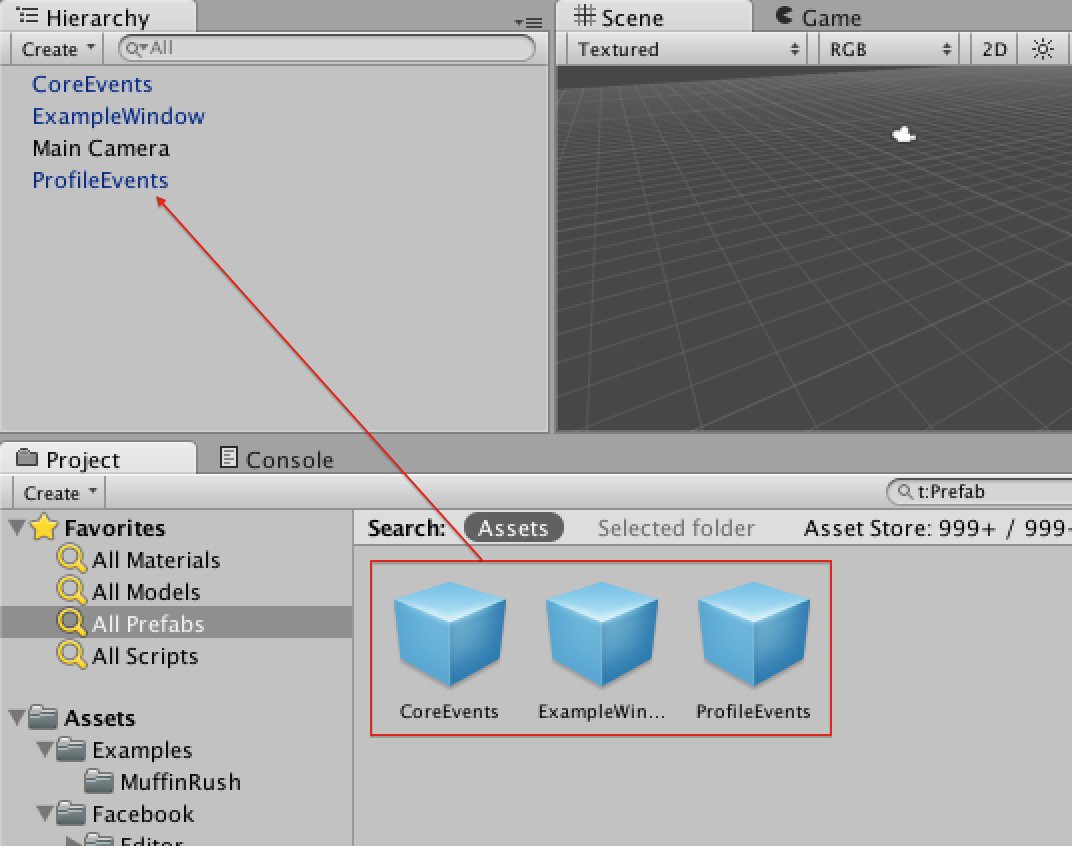
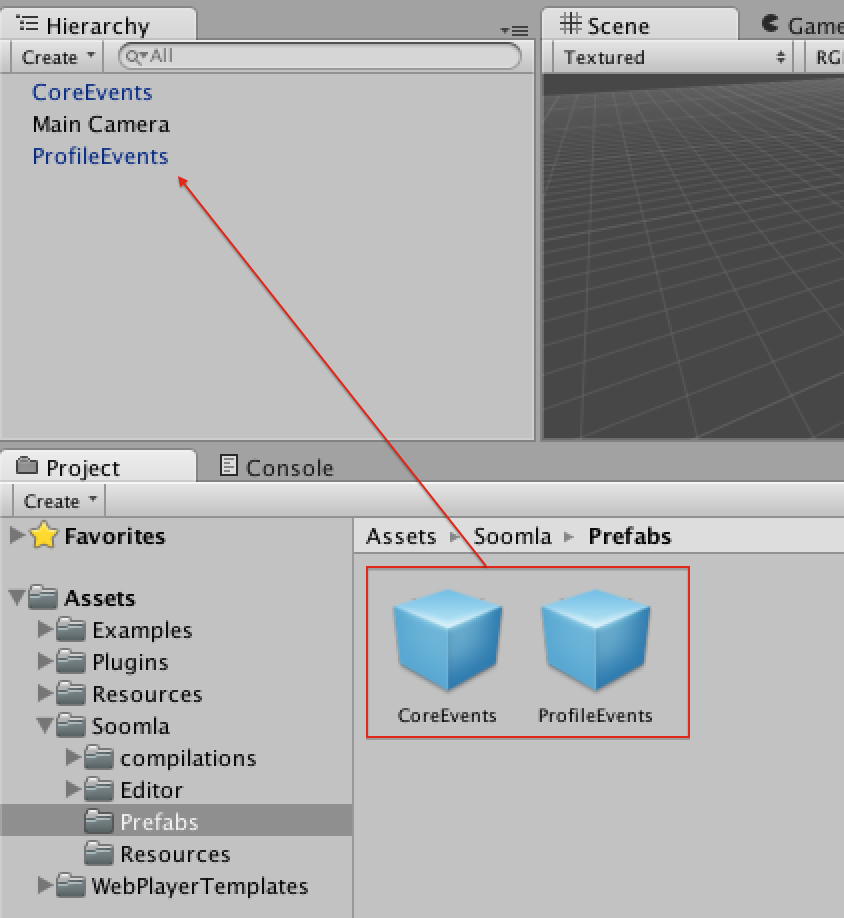
Changed prefabs image in all unity docs

diff --git a/src/documents/unity/store/Store_GettingStarted.html.md b/src/documents/unity/store/Store_GettingStarted.html.md
@@ -30,7 +30,7 @@ platform: 'unity'
 
 2. Drag the "StoreEvents" and "CoreEvents" Prefabs from `../Assets/Soomla/Prefabs` into your scene. You should see them listed in the "Hierarchy" panel.
 
-  ![alt text](/img/tutorial_img/unity_getting_started/hierarchyPanel.png "Hierarchy")
+  ![alt text](/img/tutorial_img/unity_getting_started/prefabs.png "Prefabs")
 
 3. On the menu bar click "Window" > "Soomla" > "Edit Settings" and change the values for "Soomla Secret" and "Public Key":
 
